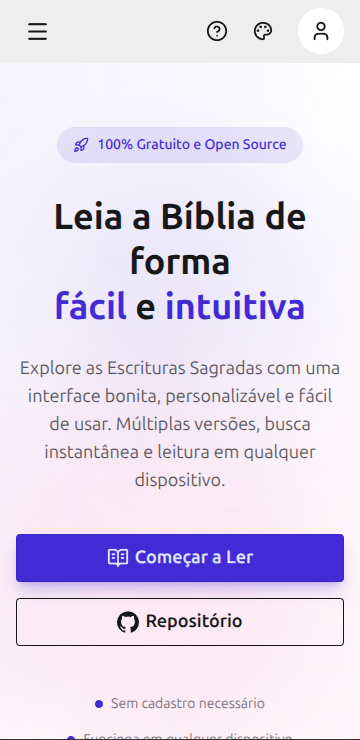
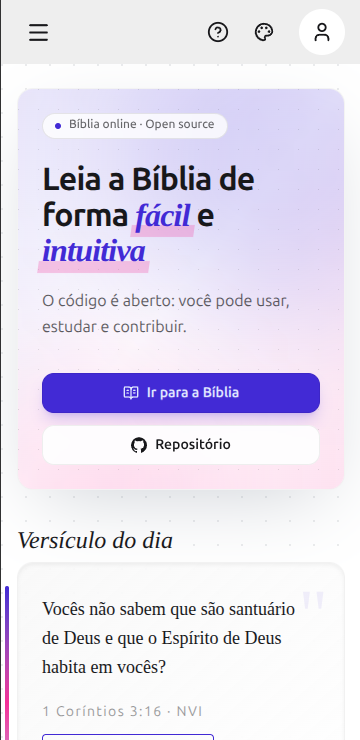
feat: update screenshots and adjust image size for desktop version

diff --git a/app/components/home/VerseOfTheDaySection.vue b/app/components/home/VerseOfTheDaySection.vue
@@ -138,7 +138,7 @@ const chapterLink = computed(() => {
         <blockquote class="relative max-w-prose font-serif text-lg leading-relaxed text-base-content pe-5 md:text-xl">
           {{ verseText }}
         </blockquote>
-        <p class="relative mt-5 text-sm tracking-widest text-base-content/45">
+        <p class="relative mt-5 text-sm tracking-widest text-base-content/70">
           {{ verseReference }} · {{ versionStore.currentVersion?.abbreviation }}
         </p>
 

diff --git a/nuxt.config.ts b/nuxt.config.ts
@@ -49,7 +49,7 @@ export default defineNuxtConfig({
       screenshots: [
         {
           src: '/screenshots/desktop.png',
-          sizes: '1280x719',
+          sizes: '1280x720',
           type: 'image/png',
           form_factor: 'wide',
           label: 'Bibleasy no desktop',